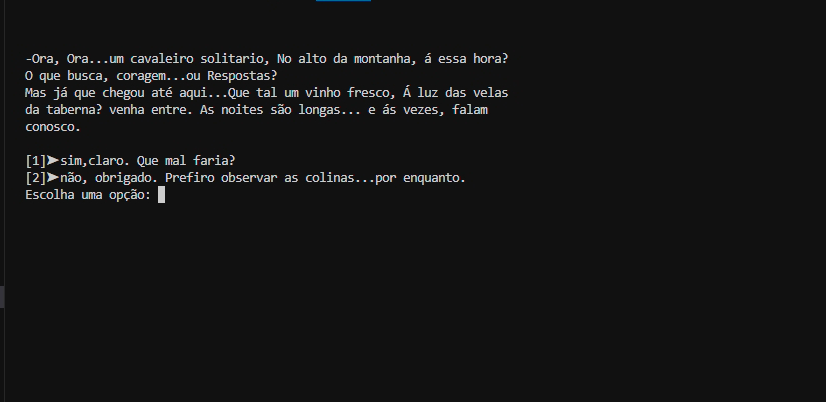
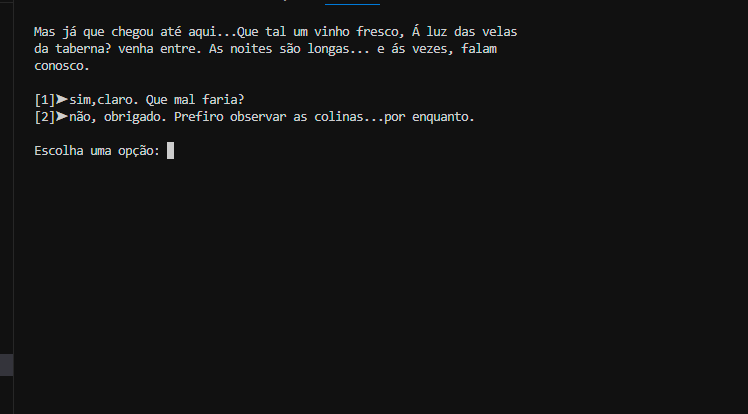
adicionei img ao projeto

diff --git a/README.md b/README.md
@@ -1,5 +1,10 @@
 # 7 Noites na Taberna
 
+
+![menu do projeto](img/menu%20atual.png)
+
+---
+
 🎮 Um RPG narrativo que roda no terminal e convida à introspecção.
 
 ## ✨ Sobre o Projeto
